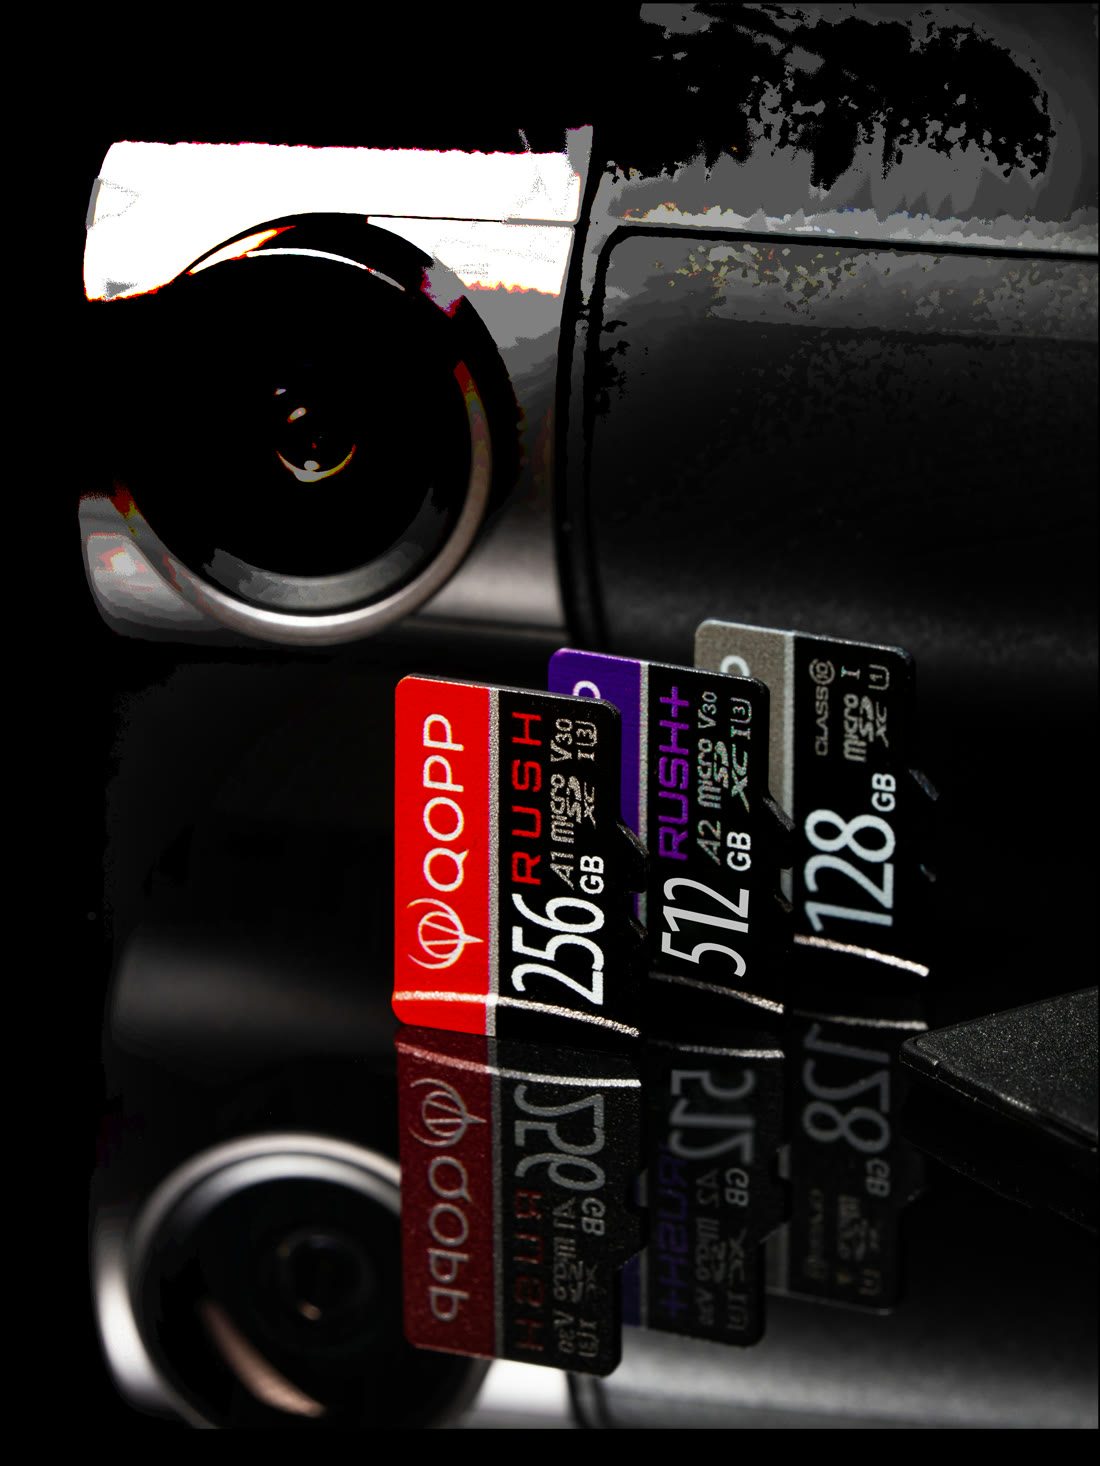
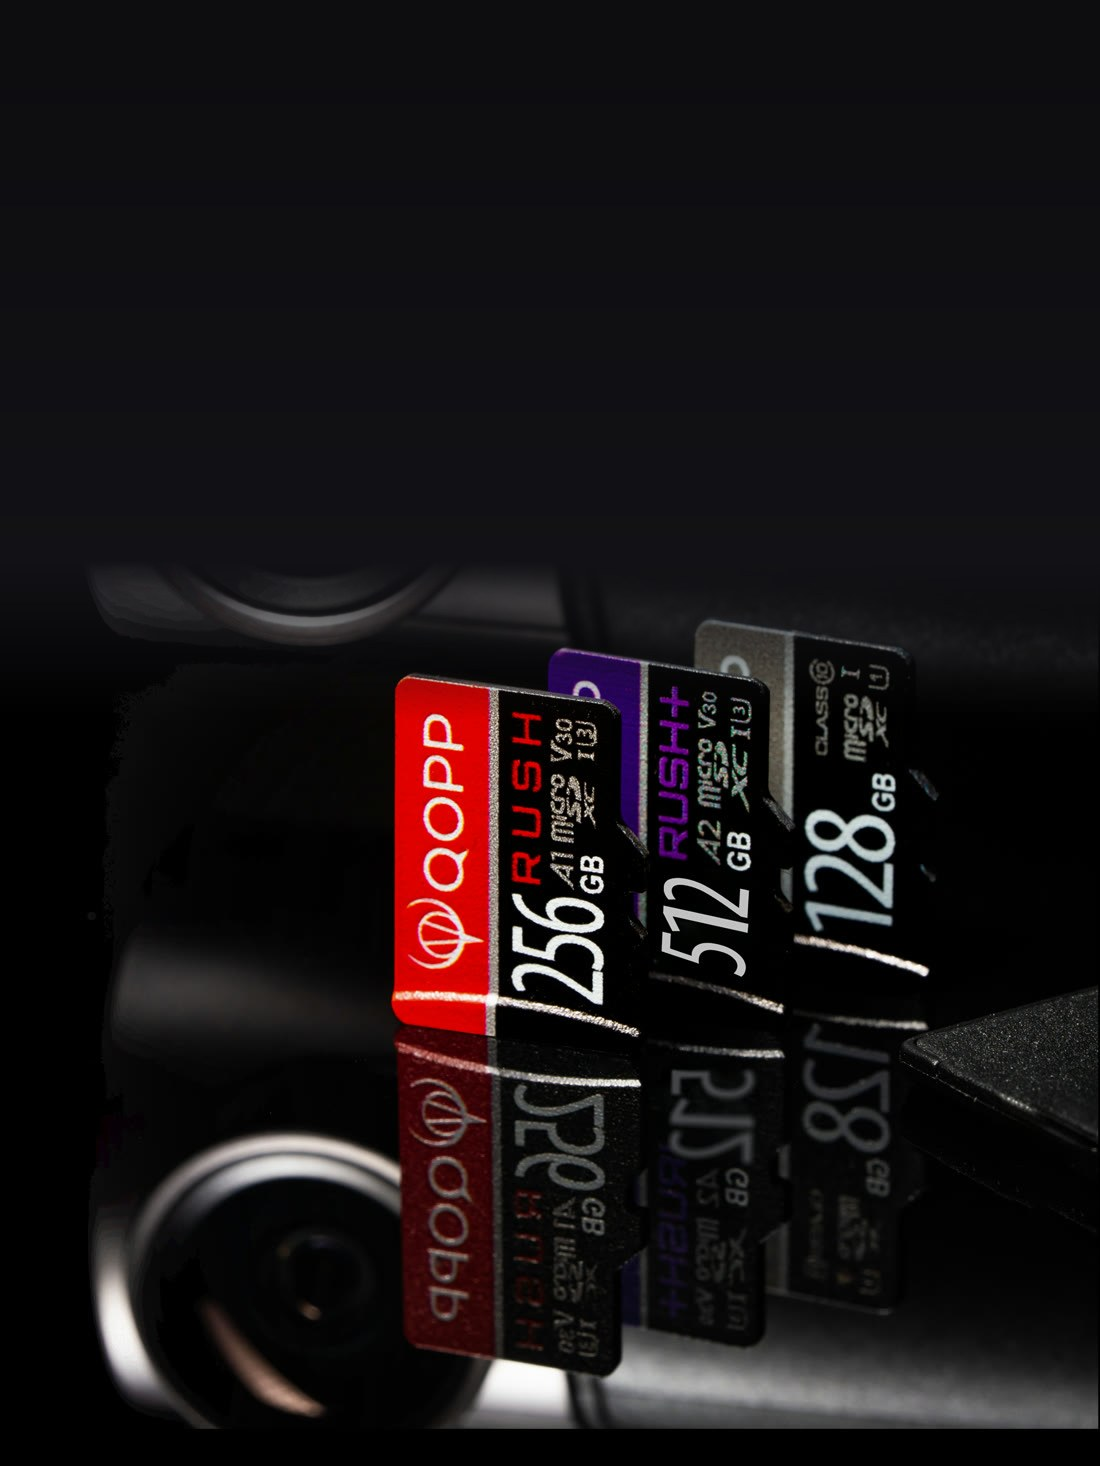
«Где купить» с подсветкой DDR5 и регулятором цвета; фото карт на «Гарантии» без артефактов; RUSH+ слева
Слой цвета по маске свечения с альфой, ползунок справа на десктопе и под фото
на телефоне; верх фото карт закрыт тёмным градиентом; подпись RUSH+ на телефоне
как у остальных полос.

diff --git a/buy.html b/buy.html
@@ -503,7 +503,34 @@ a.fl:hover::after,a.fl:focus-visible::after{transform:scaleX(1);transform-origin
 
 /* ============ где купить: по референсу дизайнера ============ */
 .b-top{padding-top:clamp(64px,6.4vw,92px);background:#fff}
-.b-photo{margin:0;line-height:0}
+.b-photo{margin:0;line-height:0;position:relative}
+/* подсветка модулей: слой цвета в режиме color по маске свечения, ползунок задаёт оттенок (как на «Гарантии», владелец 22.10.2026) */
+.ds-tint{position:absolute;left:0;top:0;width:100%;height:clamp(250px,42.6vw,700px);pointer-events:none;
+  background:hsl(var(--hue,200),100%,55%);mix-blend-mode:color;opacity:0;transition:opacity .45s var(--ease);
+  -webkit-mask:url(assets/buy-hero-rgb-glow.webp) 54% 46%/cover no-repeat;mask:url(assets/buy-hero-rgb-glow.webp) 54% 46%/cover no-repeat}
+.ds-tint.on{opacity:1}
+.ds-hue{position:absolute;z-index:2;right:calc(clamp(14px,2.2vw,34px) - 98px);top:calc(50% - 22px);width:240px;height:44px;
+  display:flex;align-items:center;gap:8px;transform:rotate(-90deg)}
+.ds-hue button{flex:none;width:44px;height:44px;padding:0;border:0;border-radius:50%;background:none;cursor:pointer;display:grid;place-items:center}
+.ds-hue button::before{content:"";width:24px;height:24px;border-radius:50%;
+  background:conic-gradient(#ff3b30,#ffcc00,#34c759,#32ade6,#5856d6,#ff2d55,#ff3b30);
+  box-shadow:0 0 0 2px #0b0a08,0 0 0 3px rgba(242,240,234,.35);transition:box-shadow .3s var(--ease)}
+.ds-hue button.on::before{box-shadow:0 0 0 2px #0b0a08,0 0 0 4px #f2f0ea}
+.ds-hue input{-webkit-appearance:none;appearance:none;flex:1 1 auto;min-width:0;height:44px;margin:0;background:transparent;cursor:pointer}
+.ds-hue input::-webkit-slider-runnable-track{height:8px;border-radius:4px;box-shadow:0 0 0 1px rgba(242,240,234,.28),0 2px 12px rgba(0,0,0,.6);
+  background:linear-gradient(to right,hsl(0,100%,55%),hsl(60,100%,55%),hsl(120,100%,55%),hsl(180,100%,55%),hsl(240,100%,55%),hsl(300,100%,55%),hsl(360,100%,55%))}
+.ds-hue input::-moz-range-track{height:8px;border-radius:4px;box-shadow:0 0 0 1px rgba(242,240,234,.28),0 2px 12px rgba(0,0,0,.6);
+  background:linear-gradient(to right,hsl(0,100%,55%),hsl(60,100%,55%),hsl(120,100%,55%),hsl(180,100%,55%),hsl(240,100%,55%),hsl(300,100%,55%),hsl(360,100%,55%))}
+.ds-hue input::-webkit-slider-thumb{-webkit-appearance:none;appearance:none;width:24px;height:24px;margin-top:-8px;border-radius:50%;
+  background:hsl(var(--hue,200),100%,55%);border:3px solid #f2f0ea;box-shadow:0 2px 10px rgba(0,0,0,.6)}
+.ds-hue input::-moz-range-thumb{width:18px;height:18px;border-radius:50%;background:hsl(var(--hue,200),100%,55%);border:3px solid #f2f0ea;box-shadow:0 2px 10px rgba(0,0,0,.6)}
+.ds-hue input:focus-visible{outline:none}
+.ds-hue input:focus-visible::-webkit-slider-thumb{box-shadow:0 0 0 3px var(--accent)}
+/* на телефоне и планшете ползунок горизонтальный, под модулями (владелец, 22.10.2026) */
+@media (max-width:1024px){
+  .ds-hue{position:static;transform:none;width:auto;max-width:420px;margin:10px auto 0;padding:0 16px;flex-direction:row-reverse}
+  .b-photo{line-height:normal;padding-bottom:8px;background:#0b0b0c}
+}
 .b-photo img{display:block;width:100%;height:clamp(250px,42.6vw,700px);object-fit:cover;object-position:54% 46%}
 .b-body{position:relative;z-index:1;background:#fff;text-align:center;padding:clamp(40px,6.4vh,76px) clamp(16px,4vw,56px) clamp(60px,10vh,120px)}
 .b-lede{max-width:60ch;margin:0 auto;font-size:clamp(16px,1.45vw,20px);line-height:1.5;color:#2b2e35}
@@ -522,7 +549,7 @@ a.fl:hover::after,a.fl:focus-visible::after{transform:scaleX(1);transform-origin
 .shop-ic.q{width:60px;height:60px;margin:8px;border-radius:50%;background:#14161c;display:grid;place-items:center;box-shadow:0 6px 14px rgba(20,22,28,.22)}
 .shop-ic.q img{width:24px;height:auto;display:block}
 @media (max-width:1040px){.shops{grid-template-columns:repeat(2,minmax(0,1fr))}}
-@media (max-width:560px){.shops{grid-template-columns:1fr;gap:10px}.shop-card{min-height:88px}.b-photo img{object-position:56% 46%}}
+@media (max-width:560px){.shops{grid-template-columns:1fr;gap:10px}.shop-card{min-height:88px}.b-photo img{object-position:56% 46%}.ds-tint{-webkit-mask-position:56% 46%;mask-position:56% 46%}}
 </style>
 <style id="mobile-fix">
 /* ============ мобильная версия: общие правки для всех страниц (01.10.2026) ============
@@ -600,6 +627,7 @@ nav.on-dark .logo img{filter:drop-shadow(0 2px 10px rgba(0,0,0,.55))}
   /* «Все модели» по центру, как на большом экране (владелец 07.10.2026) */
   .strip#all .strip-title{text-align:center;align-items:center}
   .strip .strip-title{font-size:20px}
+  .strip .st-rushp{justify-content:flex-start;text-align:left} /* подпись RUSH+ слева, как у остальных (встреча 21.10.2026) */
   .strip .et,.strip .cap-big .et{height:20px;margin:0}
   .strip .strip-cap{font-size:12px;gap:7px}
   .strip .cap-big{margin-top:6px;font-size:1em}
@@ -951,10 +979,16 @@ html.vt-in .c-hero.reveal .part:not(.side-label),html.vt-in .conf.reveal .part,h
 <div class="b-top">
   <figure class="b-photo">
     <picture>
-      <!-- медоед с ноутбуком снят до завершения процедуры с талисманом (встреча 21.10.2026), пока фото DDR5 -->
-      <source type="image/webp" srcset="assets/udimm-ddr5-epic.webp">
-      <img src="assets/udimm-ddr5-epic.jpg" alt="" width="2208" height="950" fetchpriority="high" decoding="async">
+      <!-- медоед с ноутбуком снят до завершения процедуры с талисманом (встреча 21.10.2026); с 22.10 фото DDR5 с подсветкой,
+           цвет подсветки меняет ползунок (слой .ds-tint по маске assets/buy-hero-rgb-glow.webp, js:rgb как на «Гарантии») -->
+      <source type="image/webp" srcset="assets/buy-hero-rgb.webp">
+      <img src="assets/buy-hero-rgb.jpg" alt="" width="1024" height="412" fetchpriority="high" decoding="async">
     </picture>
+    <span class="ds-tint" aria-hidden="true"></span>
+    <div class="ds-hue">
+      <input type="range" min="0" max="360" step="1" value="200" aria-label="Цвет подсветки модулей на фото">
+      <button class="on" type="button" aria-pressed="true" aria-label="Подсветка как на фото: радуга"></button>
+    </div>
   </figure>
 </div>
 
@@ -1310,6 +1344,43 @@ toTop.addEventListener('click',()=>{
   addEventListener('scroll',req,{passive:true});addEventListener('resize',req);
   setTimeout(frame,60);frame();
 })();
+
+/* ============ rgb: цвет подсветки модулей на фото (с 01.10.2026) ============
+   Тёмная вставка страницы гарантии: поверх фото лежит слой .ds-tint сплошного цвета в режиме наложения color,
+   по маске свечения (assets/ram-warranty-glow, делает САЙТ РЕФЫ/rgb_mask.py). Ползунок задаёт оттенок,
+   круглая кнопка возвращает радугу, как на исходном фото.
+   Чтобы ползунок заметили: когда вставка впервые попадает на экран, подсветка один раз сама проходит по цветам
+   и возвращается к радуге. Любое действие человека показ прерывает. При prefers-reduced-motion показа нет. */
+{
+  const tint=document.querySelector('.ds-tint'),box=document.querySelector('.ds-hue');
+  if(tint&&box){
+    const r=box.querySelector('input'),back=box.querySelector('button');
+    let demo=0;
+    const hue=v=>{tint.style.setProperty('--hue',v);box.style.setProperty('--hue',v)};
+    const rainbow=()=>{tint.classList.remove('on');back.classList.add('on');back.setAttribute('aria-pressed','true')};
+    const paint=()=>{cancelAnimationFrame(demo);demo=0;hue(r.value);tint.classList.add('on');back.classList.remove('on');back.setAttribute('aria-pressed','false')};
+    r.addEventListener('input',paint);
+    r.addEventListener('pointerdown',paint);
+    back.addEventListener('click',()=>{cancelAnimationFrame(demo);demo=0;rainbow()});
+    hue(r.value);
+    if(!matchMedia('(prefers-reduced-motion: reduce)').matches){
+      new IntersectionObserver((es,ob)=>es.forEach(e=>{
+        if(!e.isIntersecting)return;ob.disconnect();
+        setTimeout(()=>{
+          if(!back.classList.contains('on')||!matchMedia('(min-width:861px)').matches)return;
+          const t0=performance.now(),T=3200;
+          tint.classList.add('on');
+          const step=now=>{
+            const p=Math.min(1,(now-t0)/T),v=Math.round(360*(p<.5?2*p*p:1-Math.pow(-2*p+2,2)/2));
+            r.value=v;hue(v);
+            if(p<1)demo=requestAnimationFrame(step);else{demo=0;r.value=200;hue(200);rainbow()}
+          };
+          demo=requestAnimationFrame(step);
+        },900);
+      }),{threshold:.6}).observe(box.parentElement);
+    }
+  }
+}
 /* форма в подвале: передаёт имя, почту и телефон в пошаговую форму на partners.html (sessionStorage, не адрес) */
 const coopForm=document.querySelector('.coop-form');
 if(coopForm){

diff --git a/404.html b/404.html
@@ -234,6 +234,7 @@ nav.on-dark .logo img{filter:drop-shadow(0 2px 10px rgba(0,0,0,.55))}
   /* «Все модели» по центру, как на большом экране (владелец 07.10.2026) */
   .strip#all .strip-title{text-align:center;align-items:center}
   .strip .strip-title{font-size:20px}
+  .strip .st-rushp{justify-content:flex-start;text-align:left} /* подпись RUSH+ слева, как у остальных (встреча 21.10.2026) */
   .strip .et,.strip .cap-big .et{height:20px;margin:0}
   .strip .strip-cap{font-size:12px;gap:7px}
   .strip .cap-big{margin-top:6px;font-size:1em}

diff --git a/about.html b/about.html
@@ -583,6 +583,7 @@ nav.on-dark .logo img{filter:drop-shadow(0 2px 10px rgba(0,0,0,.55))}
   /* «Все модели» по центру, как на большом экране (владелец 07.10.2026) */
   .strip#all .strip-title{text-align:center;align-items:center}
   .strip .strip-title{font-size:20px}
+  .strip .st-rushp{justify-content:flex-start;text-align:left} /* подпись RUSH+ слева, как у остальных (встреча 21.10.2026) */
   .strip .et,.strip .cap-big .et{height:20px;margin:0}
   .strip .strip-cap{font-size:12px;gap:7px}
   .strip .cap-big{margin-top:6px;font-size:1em}

diff --git a/consent.html b/consent.html
@@ -593,6 +593,7 @@ nav.on-dark .logo img{filter:drop-shadow(0 2px 10px rgba(0,0,0,.55))}
   /* «Все модели» по центру, как на большом экране (владелец 07.10.2026) */
   .strip#all .strip-title{text-align:center;align-items:center}
   .strip .strip-title{font-size:20px}
+  .strip .st-rushp{justify-content:flex-start;text-align:left} /* подпись RUSH+ слева, как у остальных (встреча 21.10.2026) */
   .strip .et,.strip .cap-big .et{height:20px;margin:0}
   .strip .strip-cap{font-size:12px;gap:7px}
   .strip .cap-big{margin-top:6px;font-size:1em}

diff --git a/faq.html b/faq.html
@@ -644,6 +644,7 @@ nav.on-dark .logo img{filter:drop-shadow(0 2px 10px rgba(0,0,0,.55))}
   /* «Все модели» по центру, как на большом экране (владелец 07.10.2026) */
   .strip#all .strip-title{text-align:center;align-items:center}
   .strip .strip-title{font-size:20px}
+  .strip .st-rushp{justify-content:flex-start;text-align:left} /* подпись RUSH+ слева, как у остальных (встреча 21.10.2026) */
   .strip .et,.strip .cap-big .et{height:20px;margin:0}
   .strip .strip-cap{font-size:12px;gap:7px}
   .strip .cap-big{margin-top:6px;font-size:1em}

diff --git a/index.html b/index.html
@@ -801,6 +801,7 @@ nav.on-dark .logo img{filter:drop-shadow(0 2px 10px rgba(0,0,0,.55))}
   /* «Все модели» по центру, как на большом экране (владелец 07.10.2026) */
   .strip#all .strip-title{text-align:center;align-items:center}
   .strip .strip-title{font-size:20px}
+  .strip .st-rushp{justify-content:flex-start;text-align:left} /* подпись RUSH+ слева, как у остальных (встреча 21.10.2026) */
   .strip .et,.strip .cap-big .et{height:20px;margin:0}
   .strip .strip-cap{font-size:12px;gap:7px}
   .strip .cap-big{margin-top:6px;font-size:1em}

diff --git a/legal.html b/legal.html
@@ -577,6 +577,7 @@ nav.on-dark .logo img{filter:drop-shadow(0 2px 10px rgba(0,0,0,.55))}
   /* «Все модели» по центру, как на большом экране (владелец 07.10.2026) */
   .strip#all .strip-title{text-align:center;align-items:center}
   .strip .strip-title{font-size:20px}
+  .strip .st-rushp{justify-content:flex-start;text-align:left} /* подпись RUSH+ слева, как у остальных (встреча 21.10.2026) */
   .strip .et,.strip .cap-big .et{height:20px;margin:0}
   .strip .strip-cap{font-size:12px;gap:7px}
   .strip .cap-big{margin-top:6px;font-size:1em}

diff --git a/microsd.html b/microsd.html
@@ -611,6 +611,7 @@ nav.on-dark .logo img{filter:drop-shadow(0 2px 10px rgba(0,0,0,.55))}
   /* «Все модели» по центру, как на большом экране (владелец 07.10.2026) */
   .strip#all .strip-title{text-align:center;align-items:center}
   .strip .strip-title{font-size:20px}
+  .strip .st-rushp{justify-content:flex-start;text-align:left} /* подпись RUSH+ слева, как у остальных (встреча 21.10.2026) */
   .strip .et,.strip .cap-big .et{height:20px;margin:0}
   .strip .strip-cap{font-size:12px;gap:7px}
   .strip .cap-big{margin-top:6px;font-size:1em}

diff --git a/notebooks.html b/notebooks.html
@@ -604,6 +604,7 @@ nav.on-dark .logo img{filter:drop-shadow(0 2px 10px rgba(0,0,0,.55))}
   /* «Все модели» по центру, как на большом экране (владелец 07.10.2026) */
   .strip#all .strip-title{text-align:center;align-items:center}
   .strip .strip-title{font-size:20px}
+  .strip .st-rushp{justify-content:flex-start;text-align:left} /* подпись RUSH+ слева, как у остальных (встреча 21.10.2026) */
   .strip .et,.strip .cap-big .et{height:20px;margin:0}
   .strip .strip-cap{font-size:12px;gap:7px}
   .strip .cap-big{margin-top:6px;font-size:1em}

diff --git a/offer.html b/offer.html
@@ -593,6 +593,7 @@ nav.on-dark .logo img{filter:drop-shadow(0 2px 10px rgba(0,0,0,.55))}
   /* «Все модели» по центру, как на большом экране (владелец 07.10.2026) */
   .strip#all .strip-title{text-align:center;align-items:center}
   .strip .strip-title{font-size:20px}
+  .strip .st-rushp{justify-content:flex-start;text-align:left} /* подпись RUSH+ слева, как у остальных (встреча 21.10.2026) */
   .strip .et,.strip .cap-big .et{height:20px;margin:0}
   .strip .strip-cap{font-size:12px;gap:7px}
   .strip .cap-big{margin-top:6px;font-size:1em}

diff --git a/partners.html b/partners.html
@@ -640,6 +640,7 @@ nav.on-dark .logo img{filter:drop-shadow(0 2px 10px rgba(0,0,0,.55))}
   /* «Все модели» по центру, как на большом экране (владелец 07.10.2026) */
   .strip#all .strip-title{text-align:center;align-items:center}
   .strip .strip-title{font-size:20px}
+  .strip .st-rushp{justify-content:flex-start;text-align:left} /* подпись RUSH+ слева, как у остальных (встреча 21.10.2026) */
   .strip .et,.strip .cap-big .et{height:20px;margin:0}
   .strip .strip-cap{font-size:12px;gap:7px}
   .strip .cap-big{margin-top:6px;font-size:1em}

diff --git a/policy.html b/policy.html
@@ -593,6 +593,7 @@ nav.on-dark .logo img{filter:drop-shadow(0 2px 10px rgba(0,0,0,.55))}
   /* «Все модели» по центру, как на большом экране (владелец 07.10.2026) */
   .strip#all .strip-title{text-align:center;align-items:center}
   .strip .strip-title{font-size:20px}
+  .strip .st-rushp{justify-content:flex-start;text-align:left} /* подпись RUSH+ слева, как у остальных (встреча 21.10.2026) */
   .strip .et,.strip .cap-big .et{height:20px;margin:0}
   .strip .strip-cap{font-size:12px;gap:7px}
   .strip .cap-big{margin-top:6px;font-size:1em}
